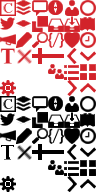
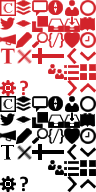
#10914 - replace Click for Instructions link with nice help button

Changed region(s): [[0.1875, 0.9062, 0.3125, 1.0], [0.1875, 0.4062, 0.3125, 0.5]]

diff --git a/app/assets/stylesheets/mini_icons.css.scss b/app/assets/stylesheets/mini_icons.css.scss
@@ -147,6 +147,10 @@
     background-position: -0px (-80px + 96px);
   }
 
+  .mini-icon-help {
+    background-position: -16px (-80px + 96px);
+  }
+
   .mini-icon-hopen {
     background-position: -64px (-80px + 96px);
   }
@@ -284,6 +288,10 @@ a:hover, button:hover {
 
     .mini-icon-admin {
       background-position: -0px (-80px + 0px);
+    }
+
+    .mini-icon-help {
+      background-position: -16px (-80px + 0px);
     }
 
     .mini-icon-hopen {
